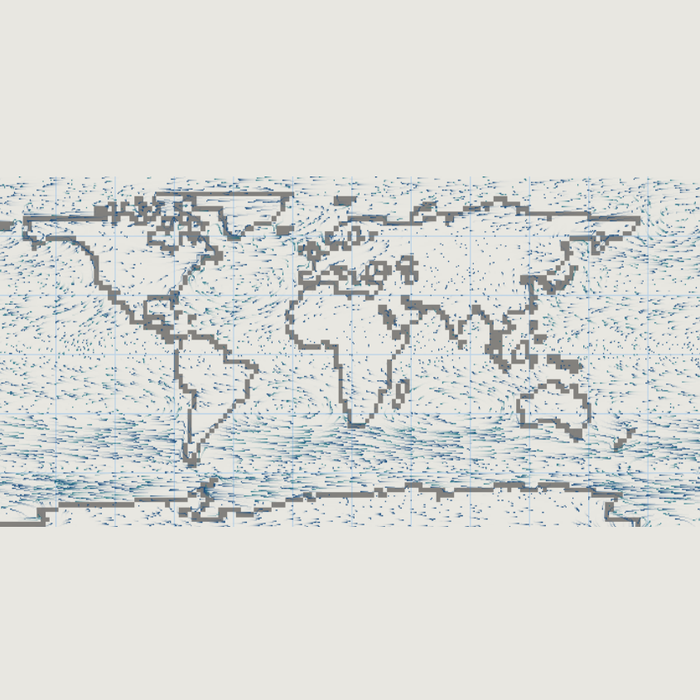
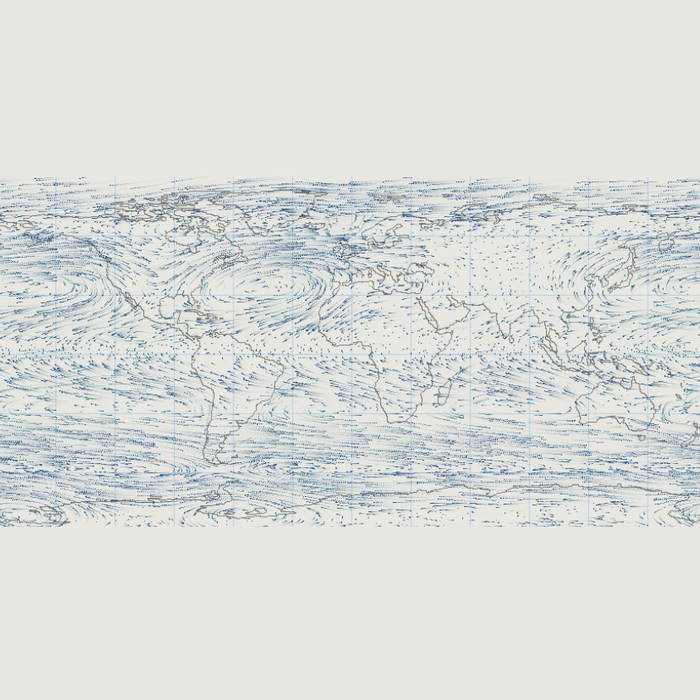
feat(circulation): Natural Earth coastlines, equatorial currents, faster wind
Three requests. (1) The map was 160x72; it now uses Natural Earth 110m land rasterised to 720x360 (downloaded once with urllib, point-in-polygon via matplotlib Path, stored as a 5.7 KB npz next to the app, embedded 160x72 bitmap kept as a fallback). Physics stays on the 160x72 grid and samples this mask; coastlines are drawn from the fine one. (2) Particles were slow because the shader's |v| <= 1 px frame is relative to its 144 px buffer - at our width that is five times slower in angular terms. Displacement is now scaled by BW/144 * 0.30, so the wind visibly sweeps across the map. (3) The barotropic Sverdrup solve cannot produce an equatorial counter-current, so the three observed bands are superimposed on the ocean field: NEC westward 10-20N, NECC eastward 5-10N, SEC westward 5S-5N. Measured zonal means: -7.4 at the equator, +3.3 at 5-7N, -12.6 at 15N. Frame 25.8 ms at 840x420.

Changed region(s): [[0.0, 0.24, 1.0, 0.75]]

diff --git a/apps/Physics/Circulation.py b/apps/Physics/Circulation.py
@@ -14,10 +14,30 @@ _LAND_B64 = (
 )
 
 
-def load_land():
+def load_land_fine():
+    """720×360 的 Natural Earth 海岸线（第 0 行是北）。"""
+    import os as _os
+    path = _os.path.join(_os.path.dirname(_os.path.abspath(__file__)), "worldmask.npz")
+    try:
+        d = np.load(path)["land"]
+        if d.shape == (360, 720):
+            return d
+    except Exception:
+        pass
+    # 没有文件时退回内嵌的 160×72 位图（放大）
     raw = zlib.decompress(base64.b64decode(_LAND_B64))
-    bits = np.unpackbits(np.frombuffer(raw, np.uint8))
-    return bits[: 160 * 72].reshape(72, 160).astype(bool)
+    bits = np.unpackbits(np.frombuffer(raw, np.uint8)).reshape(72, 160)
+    ys = (np.arange(360) * 72 / 360).astype(int)
+    xs = (np.arange(720) * 160 / 720).astype(int)
+    return bits[np.ix_(ys, xs)].astype(bool)
+
+
+def load_land():
+    """物理网格用 160×72（第 0 行是南），从高精度掩膜抽样得到。"""
+    fine = load_land_fine()[::-1]                 # 翻成南在下
+    ys = (np.arange(72) * fine.shape[0] / 72).astype(int)
+    xs = (np.arange(160) * fine.shape[1] / 160).astype(int)
+    return fine[np.ix_(ys, xs)].astype(bool)
 
 
 # ==================== 环流模型 ====================
@@ -188,6 +208,17 @@ class Circulation:
         self.psi = full
         self.ocean_u = -dpsi_dy
         self.ocean_v = dpsi_dx
+
+        # 赤道流系：正压 Sverdrup 解给不出赤道逆流，这里按观测把三条带叠上去
+        #   NEC  10–20°N  向西
+        #   NECC 5–10°N   向东（赤道逆流）
+        #   SEC  5°S–5°N  向西
+        lat = self.lat
+        ref = np.abs(self.ocean_u).mean() + 1e-9
+        band = (0.85 * np.exp(-((lat - 14.0) / 6.0) ** 2) * -1.0
+                + 1.15 * np.exp(-((lat - 7.0) / 2.6) ** 2)
+                + 0.95 * np.exp(-((lat + 1.5) / 4.0) ** 2) * -1.0)
+        self.ocean_u = self.ocean_u + band * ref * 2.2
         scale = np.abs(self.ocean_u).max()
         if scale > 1e-9:
             # 归一到与风速可比的量级，方便同一套粒子参数显示
@@ -231,7 +262,7 @@ class CirculationApp(QMainWindow):
     |v|≤1 像素，拖尾值每帧乘 0.9，粒子落到的像素置 1，最后按参考的 PAPER 配色
     反相成米白纸面 + 蓝灰细流线。"""
 
-    BW, BH = 720, 324          # 缓冲分辨率（2:1，和地图一致）
+    BW, BH = 840, 420          # 缓冲分辨率（2:1，和地图一致）
 
     def __init__(self):
         super().__init__()
@@ -289,12 +320,16 @@ class CirculationApp(QMainWindow):
             k = np.clip(mag / max(1e-6, ref), 0.0, 1.0) / np.maximum(mag, 1e-6)
             return (u * k).astype(np.float32), (v * k).astype(np.float32)
 
-        vxu, vyu = norm(up(wx), up(wy), np.percentile(np.hypot(wx, wy), 90))
-        vox, voy = norm(up(ou), up(ov), max(1e-6, np.percentile(np.hypot(ou, ov), 90)))
+        # 参考里 |v| ≤ 1 像素/帧，是相对 144 宽的缓冲说的；
+        # 我们的缓冲宽得多，按比例放大才有同样的速度感
+        gain = self.BW / 144.0 * 0.30
+        vxu, vyu = norm(up(wx), up(wy), np.percentile(np.hypot(wx, wy), 80))
+        vox, voy = norm(up(ou), up(ov), max(1e-6, np.percentile(np.hypot(ou, ov), 80)))
         # 缓冲 y 向下，模型 v 向北 → 取负
-        self._vx_w, self._vy_w = vxu * 1.0, -vyu * 1.0
-        self._vx_o, self._vy_o = vox * 0.9, -voy * 0.9
-        self._ocean_mask = up(self.model.ocean.astype(np.float32))
+        self._vx_w, self._vy_w = vxu * gain, -vyu * gain
+        self._vx_o, self._vy_o = vox * gain * 1.15, -voy * gain * 1.15
+        fine_ocean = ~load_land_fine()
+        self._ocean_mask = up(fine_ocean.astype(np.float32))
 
     # ---------- 静态底图 ----------
     def _build_base(self):
@@ -302,14 +337,14 @@ class CirculationApp(QMainWindow):
         paper = np.array([232, 231, 225], np.float32)
         rgb = np.tile(paper, (BH, BW, 1))
 
-        land = np.flipud(self.model.land)
+        fine = load_land_fine()                      # 720×360，北在上
+        ys = (np.arange(BH) * fine.shape[0] / BH).astype(np.int32)
+        xs = (np.arange(BW) * fine.shape[1] / BW).astype(np.int32)
+        land = fine[np.ix_(ys, xs)]
         coast = np.zeros_like(land)
         coast[1:, :] |= land[1:, :] != land[:-1, :]
         coast[:, 1:] |= land[:, 1:] != land[:, :-1]
-        ys = (np.arange(BH) * land.shape[0] / BH).astype(np.int32)
-        xs = (np.arange(BW) * land.shape[1] / BW).astype(np.int32)
-        cb = coast[np.clip(ys, 0, coast.shape[0] - 1)][:, np.clip(xs, 0, coast.shape[1] - 1)]
-        cb = cb[..., None].astype(np.float32)
+        cb = coast[..., None].astype(np.float32)
         rgb = rgb * (1 - 0.9 * cb) + np.array([120, 118, 114], np.float32) * (0.9 * cb)
 
         if self.show_grid:
@@ -435,12 +470,12 @@ class CirculationApp(QMainWindow):
 
         if self.show_wind:
             self._px_w, self._py_w, self._dens_w = self._step_particles(
-                self._vx_w, self._vy_w, self._px_w, self._py_w, self._dens_w, 1.6e-4, 5e-3)
+                self._vx_w, self._vy_w, self._px_w, self._py_w, self._dens_w, 1.3e-4, 5e-3)
         else:
             self._dens_w *= 0.9
         if self.show_ocean:
             self._px_o, self._py_o, self._dens_o = self._step_particles(
-                self._vx_o, self._vy_o, self._px_o, self._py_o, self._dens_o, 8e-5, 6e-3)
+                self._vx_o, self._vy_o, self._px_o, self._py_o, self._dens_o, 5.0e-5, 7e-3)
         else:
             self._dens_o *= 0.9
 

diff --git a/README.md b/README.md
@@ -28,7 +28,7 @@
 | **Turing** | Gray-Scott 等反应扩散系统 |
 | **Beam** | 横梁承重：欧拉-伯努利梁有限元，应力超材料强度即断裂，可扫描承重与梁高/梁长的关系 |
 | **Atmosphere** | 大气对流：底部受热顶部冷却的二维不可压 Boussinesq 流体，气温作底色、气流作流线、投影步解出的气压作等压线，三者同屏 |
-| **Circulation** | 全球环流：解析式海平面气压 + 地转风，风应力旋度解泊松方程得到风生洋流，真实海陆分布上画出信风、西风带和副热带环流 |
+| **Circulation** | 全球环流：解析式海平面气压 + 地转风，风应力旋度解泊松方程得到风生洋流，叠加赤道流系（NEC／赤道逆流／SEC），海岸线用 Natural Earth 720×360 数据 |
 | **Erosion** | 降雨冲刷地形（雨滴侵蚀），干燥后按 Voronoi 板块边界张开泥土龟裂 |
 | **Ising** | 二维伊辛模型，参考 [Ising.js](https://mattbierbaum.github.io/ising.js/) |
 | **Maxwell** | 二维麦克斯韦-玻尔兹曼速率分布 |
